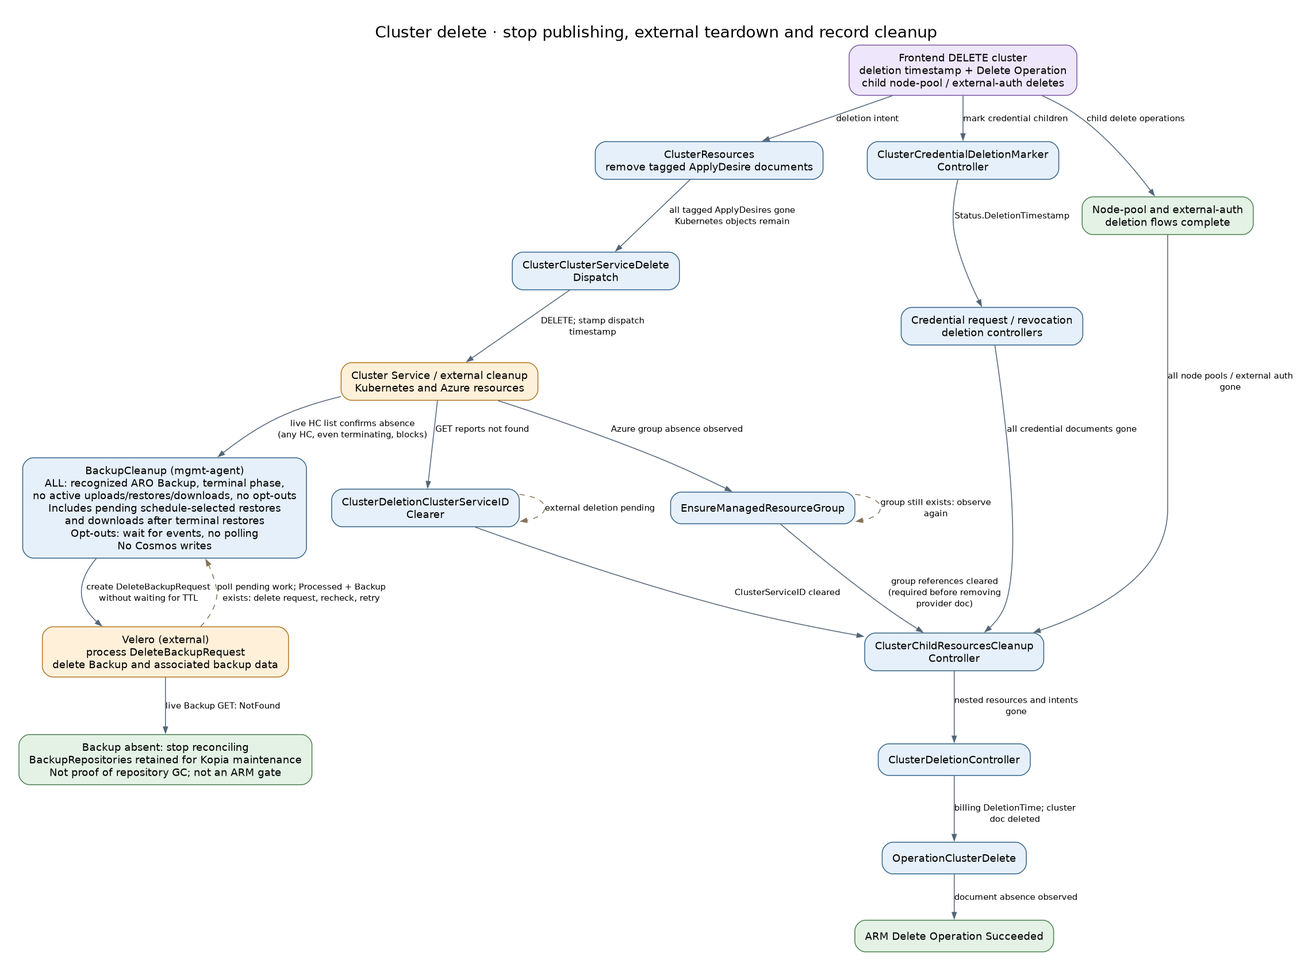
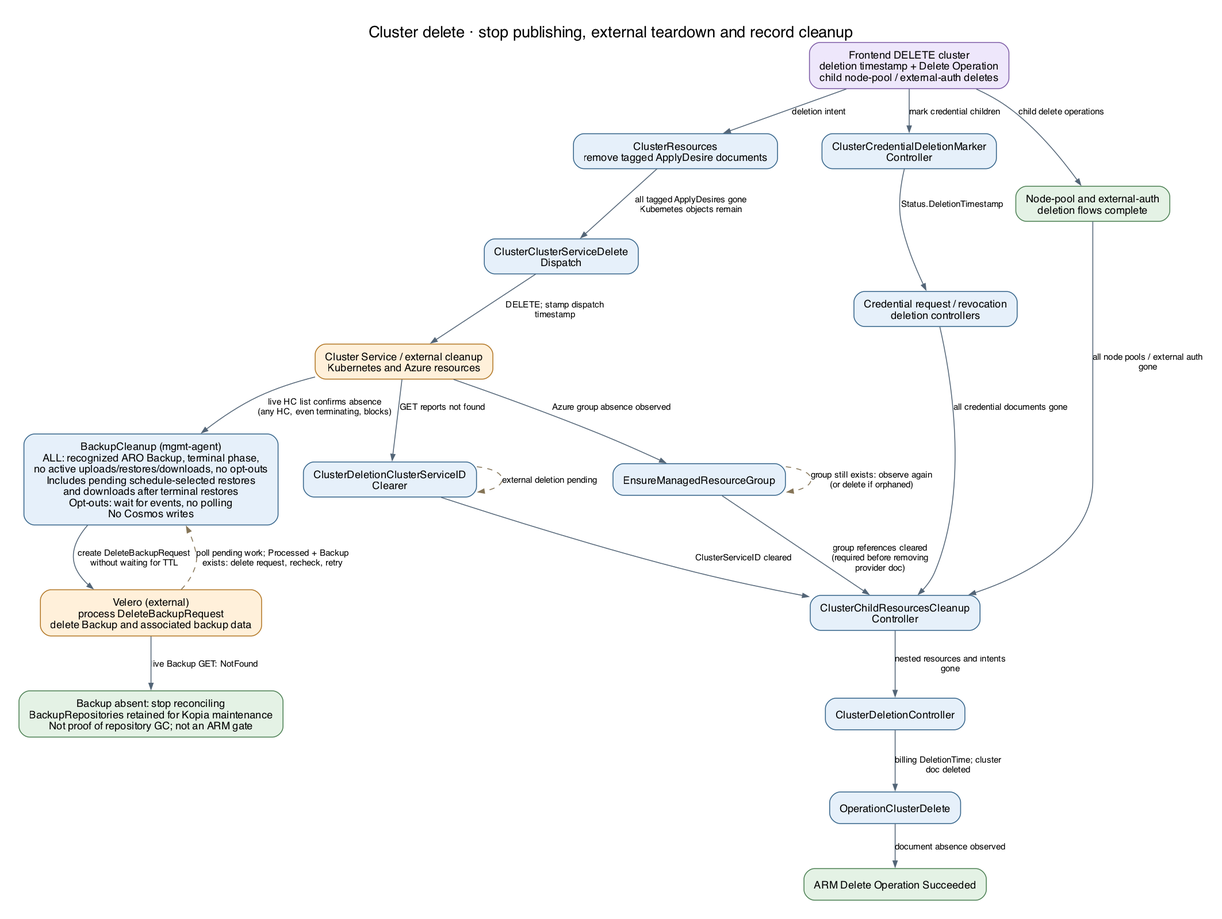
feat: delete mrg upon completed cs cluster deletion if orphaned
If Cluster Service deletion has completed and the manage resource group
still exists and is not in a deleting state, it means its been orphaned.
In this case, we should delete it to unblock the cluster from being deleted
successfully in the RP.

diff --git a/backend/pkg/controllers/cluster/azureresources/managed_resource_group_controller_test.go b/backend/pkg/controllers/cluster/azureresources/managed_resource_group_controller_test.go
@@ -437,6 +437,9 @@ func TestManagedResourceGroupSyncerSyncOnce(t *testing.T) {
 		},
 	}
 
+	// Additional test cases for orphaned MRG deletion logic will be added in a separate test
+	// since they require mocking BeginDelete calls which the table-driven test doesn't handle well
+
 	for _, tc := range testCases {
 		t.Run(tc.name, func(t *testing.T) {
 			t.Parallel()
@@ -786,4 +789,242 @@ func assertResourceIDEqual(t *testing.T, expected, actual *azcorearm.ResourceID,
 	}
 	require.NotNil(t, actual, "%s should not be nil", field)
 	assert.Equal(t, expected.String(), actual.String(), "%s resource ID mismatch", field)
+}
+
+// TestManagedResourceGroupSyncerOrphanedMRGDeletion tests the orphaned MRG deletion
+// logic: when Cluster Service has finished but the MRG still exists, the controller should delete it.
+func TestManagedResourceGroupSyncerOrphanedMRGDeletion(t *testing.T) {
+	t.Parallel()
+
+	mrgID := testManagedResourceGroupID(t)
+	ownerClusterID := newTestCluster(false).ID.String()
+	csClusterID := ptr.To(metadataapi.Must(metadataapi.NewInternalID("/api/aro_hcp/v1alpha1/clusters/test-cs-cluster-id")))
+
+	testCases := []struct {
+		name                            string
+		clusterServiceDeletionTimestamp *metav1.Time
+		clusterServiceID                *metadataapi.InternalID
+		getResponse                     armresources.ResourceGroupsClientGetResponse
+		expectBeginDelete               bool
+		beginDeleteErr                  error
+		expectErr                       bool
+		expectErrContains               string
+	}{
+		{
+			name:                            "CS finished and MRG in Succeeded state deletes it",
+			clusterServiceDeletionTimestamp: &metav1.Time{Time: time.Date(2026, 1, 2, 0, 0, 0, 0, time.UTC)},
+			clusterServiceID:                nil,
+			getResponse:                     resourceGroupPresentResponseWithState(ownerClusterID, "Succeeded"),
+			expectBeginDelete:               true,
+		},
+		{
+			name:                            "CS finished and MRG already Deleting does not call BeginDelete",
+			clusterServiceDeletionTimestamp: &metav1.Time{Time: time.Date(2026, 1, 2, 0, 0, 0, 0, time.UTC)},
+			clusterServiceID:                nil,
+			getResponse:                     resourceGroupPresentResponseWithState(ownerClusterID, "Deleting"),
+			expectBeginDelete:               false,
+		},
+		{
+			name:                            "CS not finished yet (ClusterServiceID set) does not delete",
+			clusterServiceDeletionTimestamp: &metav1.Time{Time: time.Date(2026, 1, 2, 0, 0, 0, 0, time.UTC)},
+			clusterServiceID:                csClusterID,
+			getResponse:                     resourceGroupPresentResponseWithState(ownerClusterID, "Succeeded"),
+			expectBeginDelete:               false,
+		},
+		{
+			name:                            "ClusterServiceDeletionTimestamp not set does not delete",
+			clusterServiceDeletionTimestamp: nil,
+			clusterServiceID:                nil,
+			getResponse:                     resourceGroupPresentResponseWithState(ownerClusterID, "Succeeded"),
+			expectBeginDelete:               false,
+		},
+		{
+			name:                            "CS finished but BeginDelete fails returns error",
+			clusterServiceDeletionTimestamp: &metav1.Time{Time: time.Date(2026, 1, 2, 0, 0, 0, 0, time.UTC)},
+			clusterServiceID:                nil,
+			getResponse:                     resourceGroupPresentResponseWithState(ownerClusterID, "Succeeded"),
+			expectBeginDelete:               true,
+			beginDeleteErr:                  errors.New("azure error"),
+			expectErr:                       true,
+			expectErrContains:               "failed to delete managed resource group",
+		},
+		{
+			name:                            "CS finished but Properties is nil does not call BeginDelete",
+			clusterServiceDeletionTimestamp: &metav1.Time{Time: time.Date(2026, 1, 2, 0, 0, 0, 0, time.UTC)},
+			clusterServiceID:                nil,
+			getResponse: armresources.ResourceGroupsClientGetResponse{
+				ResourceGroup: armresources.ResourceGroup{
+					Name:       ptr.To(testManagedRGName),
+					ManagedBy:  ptr.To(ownerClusterID),
+					Properties: nil, // nil Properties
+				},
+			},
+			expectBeginDelete: false,
+			expectErr:         true,
+			expectErrContains: "has no provisioning state",
+		},
+		{
+			name:                            "CS finished but ProvisioningState is nil does not call BeginDelete",
+			clusterServiceDeletionTimestamp: &metav1.Time{Time: time.Date(2026, 1, 2, 0, 0, 0, 0, time.UTC)},
+			clusterServiceID:                nil,
+			getResponse: armresources.ResourceGroupsClientGetResponse{
+				ResourceGroup: armresources.ResourceGroup{
+					Name:      ptr.To(testManagedRGName),
+					ManagedBy: ptr.To(ownerClusterID),
+					Properties: &armresources.ResourceGroupProperties{
+						ProvisioningState: nil, // nil ProvisioningState
+					},
+				},
+			},
+			expectBeginDelete: false,
+			expectErr:         true,
+			expectErrContains: "has no provisioning state",
+		},
+		{
+			name:                            "CS not finished and Properties is nil does not call BeginDelete",
+			clusterServiceDeletionTimestamp: &metav1.Time{Time: time.Date(2026, 1, 2, 0, 0, 0, 0, time.UTC)},
+			clusterServiceID:                csClusterID,
+			getResponse: armresources.ResourceGroupsClientGetResponse{
+				ResourceGroup: armresources.ResourceGroup{
+					Name:       ptr.To(testManagedRGName),
+					ManagedBy:  ptr.To(ownerClusterID),
+					Properties: nil,
+				},
+			},
+			expectBeginDelete: false,
+			expectErr:         true,
+			expectErrContains: "has no provisioning state",
+		},
+	}
+
+	for _, tc := range testCases {
+		t.Run(tc.name, func(t *testing.T) {
+			t.Parallel()
+
+			ctx := utils.ContextWithLogger(context.Background(), testr.New(t))
+
+			cluster := newTestCluster(true) // creates cluster with deletion timestamp set
+			cluster.ServiceProviderProperties.ClusterServiceDeletionTimestamp = tc.clusterServiceDeletionTimestamp
+			cluster.ServiceProviderProperties.ClusterServiceID = tc.clusterServiceID
+			serviceProviderCluster := newTestServiceProviderCluster(coreapi.AzureReference{AzureResource: mrgID})
+
+			mockResourcesDB, err := corecosmosstoragetesting.NewMockResourcesDBClientWithResources(ctx, []any{cluster, serviceProviderCluster})
+			require.NoError(t, err)
+
+			ctrl := gomock.NewController(t)
+			mockRGClient := azureclient.NewMockResourceGroupsClient(ctrl)
+			mockRGClient.EXPECT().
+				Get(gomock.Any(), mrgID.Name, nil).
+				Return(tc.getResponse, nil).
+				Times(1)
+
+			if tc.expectBeginDelete {
+				mockRGClient.EXPECT().
+					BeginDelete(gomock.Any(), mrgID.Name, nil).
+					Return(nil, tc.beginDeleteErr).
+					Times(1)
+			}
+
+			fpaClientBuilder := azureclient.NewMockFirstPartyApplicationClientBuilder(ctrl)
+			fpaClientBuilder.EXPECT().
+				ResourceGroupsClient(testTenantID, testSubscriptionID).
+				Return(mockRGClient, nil).
+				Times(1)
+
+			syncer := &managedResourceGroupSyncer{
+				resourcesDBClient:            mockResourcesDB,
+				clusterLister:                &corelistertesting.DBClusterLister{ResourcesDBClient: mockResourcesDB},
+				serviceProviderClusterLister: &corelistertesting.DBServiceProviderClusterLister{ResourcesDBClient: mockResourcesDB},
+				subscriptionLister:           &corelistertesting.SliceSubscriptionLister{Subscriptions: []*coreapi.Subscription{newTestSubscription(ptr.To(testTenantID))}},
+				azureFPAClientBuilder:        fpaClientBuilder,
+			}
+
+			key := controllerutils.HCPClusterKey{
+				SubscriptionID:    testSubscriptionID,
+				ResourceGroupName: testResourceGroupName,
+				HCPClusterName:    testClusterName,
+			}
+
+			err = syncer.SyncOnce(ctx, key)
+			if tc.expectErr {
+				require.Error(t, err)
+				if tc.expectErrContains != "" {
+					assert.Contains(t, err.Error(), tc.expectErrContains)
+				}
+			} else {
+				require.NoError(t, err)
+			}
+
+			// References should stay in place until MRG is gone (404)
+			updated, err := mockResourcesDB.ServiceProviderClusters(testSubscriptionID, testResourceGroupName, testClusterName).Get(ctx, coreapi.ServiceProviderClusterResourceName)
+			require.NoError(t, err)
+			gotReference := updated.Status.AzureResources.ManagedResourceGroup
+			assertResourceIDEqual(t, mrgID, gotReference.AzureResource, "AzureResource")
+			assertResourceIDEqual(t, nil, gotReference.PendingAzureResource, "PendingAzureResource")
+		})
+	}
+}
+
+func TestManagedResourceGroupSyncerOrphanedMRGDeletion_BeginDelete404(t *testing.T) {
+	t.Parallel()
+
+	ctx := utils.ContextWithLogger(context.Background(), testr.New(t))
+
+	mrgID := testManagedResourceGroupID(t)
+	ownerClusterID := newTestCluster(false).ID.String()
+
+	cluster := newTestCluster(true)
+	cluster.ServiceProviderProperties.ClusterServiceDeletionTimestamp = &metav1.Time{Time: time.Date(2026, 1, 2, 0, 0, 0, 0, time.UTC)}
+	cluster.ServiceProviderProperties.ClusterServiceID = nil
+	serviceProviderCluster := newTestServiceProviderCluster(coreapi.AzureReference{AzureResource: mrgID})
+
+	mockResourcesDB, err := corecosmosstoragetesting.NewMockResourcesDBClientWithResources(ctx, []any{cluster, serviceProviderCluster})
+	require.NoError(t, err)
+
+	ctrl := gomock.NewController(t)
+	mockRGClient := azureclient.NewMockResourceGroupsClient(ctrl)
+	mockRGClient.EXPECT().
+		Get(gomock.Any(), mrgID.Name, nil).
+		Return(resourceGroupPresentResponseWithState(ownerClusterID, "Succeeded"), nil).
+		Times(1)
+
+	beginDeleteErr := &azcore.ResponseError{
+		StatusCode: http.StatusNotFound,
+		RawResponse: &http.Response{
+			StatusCode: http.StatusNotFound,
+		},
+		ErrorCode: "ResourceGroupNotFound",
+	}
+	mockRGClient.EXPECT().
+		BeginDelete(gomock.Any(), mrgID.Name, nil).
+		Return(nil, beginDeleteErr).
+		Times(1)
+
+	fpaClientBuilder := azureclient.NewMockFirstPartyApplicationClientBuilder(ctrl)
+	fpaClientBuilder.EXPECT().
+		ResourceGroupsClient(testTenantID, testSubscriptionID).
+		Return(mockRGClient, nil).
+		Times(1)
+
+	syncer := &managedResourceGroupSyncer{
+		resourcesDBClient:            mockResourcesDB,
+		clusterLister:                &corelistertesting.DBClusterLister{ResourcesDBClient: mockResourcesDB},
+		serviceProviderClusterLister: &corelistertesting.DBServiceProviderClusterLister{ResourcesDBClient: mockResourcesDB},
+		subscriptionLister:           &corelistertesting.SliceSubscriptionLister{Subscriptions: []*coreapi.Subscription{newTestSubscription(ptr.To(testTenantID))}},
+		azureFPAClientBuilder:        fpaClientBuilder,
+	}
+
+	key := controllerutils.HCPClusterKey{
+		SubscriptionID:    testSubscriptionID,
+		ResourceGroupName: testResourceGroupName,
+		HCPClusterName:    testClusterName,
+	}
+
+	require.NoError(t, syncer.SyncOnce(ctx, key))
+
+	updated, err := mockResourcesDB.ServiceProviderClusters(testSubscriptionID, testResourceGroupName, testClusterName).Get(ctx, coreapi.ServiceProviderClusterResourceName)
+	require.NoError(t, err)
+	gotReference := updated.Status.AzureResources.ManagedResourceGroup
+	assertResourceIDEqual(t, nil, gotReference.AzureResource, "AzureResource")
+	assertResourceIDEqual(t, nil, gotReference.PendingAzureResource, "PendingAzureResource")
 }

diff --git a/backend/pkg/controllers/cluster/azureresources/managed_resource_group_controller.go b/backend/pkg/controllers/cluster/azureresources/managed_resource_group_controller.go
@@ -58,8 +58,8 @@ const managedResourceGroupProvisioningRequeueInterval = 10 * time.Second
 // DB-consuming code (for example the cluster child-resources cleanup gate) can
 // reason about the MRG without reaching into Azure directly.
 //
-// Deletion is still owned by Cluster Service: the deletion path is observe-only
-// (it never calls BeginDelete) and merely mirrors the observed state so the
+// Deletion is still owned by Cluster Service: the deletion path is observe-only, unless
+// the managed resource group has been orphaned, and merely mirrors the observed state so the
 // cluster deletion gate can decide when it is safe to proceed.
 type managedResourceGroupSyncer struct {
 	resourcesDBClient            corecosmosstorage.ResourcesDBClient
@@ -141,7 +141,8 @@ func (c *managedResourceGroupSyncer) NeedsWork(cluster *coreapi.Cluster, service
 // SyncOnce reads the cluster and ServiceProviderCluster from the informer caches,
 // short-circuits via NeedsWork, and then dispatches to the deletion or
 // non-deletion (reconcile) path. The non-deletion path creates the resource group
-// when it is missing; deletion remains observe-only (Cluster Service owns it).
+// when it is missing; deletion remains observe-only (Cluster Service owns it), unless the managed
+// resource group has been orphaned.
 func (c *managedResourceGroupSyncer) SyncOnce(ctx context.Context, key controllerutils.HCPClusterKey) error {
 	cluster, err := c.clusterLister.Get(ctx, key.SubscriptionID, key.ResourceGroupName, key.HCPClusterName)
 	if cosmosstorageutils.IsNotFoundError(err) {
@@ -333,7 +334,7 @@ func (c *managedResourceGroupSyncer) persistManagedResourceGroup(ctx context.Con
 	return utils.TrackError(err)
 }
 
-// deleteManagedResourceGroup observes the managed resource group while the cluster
+// deleteManagedResourceGroup observes the managed resource group, unless orphaned, while the cluster
 // is being deleted and reflects its state so the cluster child-resources cleanup
 // gate can decide when it is safe to remove the ServiceProviderCluster document.
 //
@@ -350,6 +351,8 @@ func (c *managedResourceGroupSyncer) persistManagedResourceGroup(ctx context.Con
 //     gate stays closed. Cluster Service owns the resource group's deletion. TODO: begin
 //     deletion.
 func (c *managedResourceGroupSyncer) deleteManagedResourceGroup(ctx context.Context, cluster *coreapi.Cluster, existingServiceProviderCluster *coreapi.ServiceProviderCluster) error {
+	logger := utils.LoggerFromContext(ctx)
+
 	// A reference is guaranteed set here (see NeedsWork). Prefer the confirmed
 	// AzureResource, falling back to the PendingAzureResource marker.
 	currentReference := existingServiceProviderCluster.Status.AzureResources.ManagedResourceGroup
@@ -379,9 +382,38 @@ func (c *managedResourceGroupSyncer) deleteManagedResourceGroup(ctx context.Cont
 		return utils.TrackError(c.clearManagedResourceGroupReferences(ctx, cluster, existingServiceProviderCluster))
 	default:
 		// The managed resource group still exists and is owned by this cluster.
-		// Cluster Service owns its deletion; leave the reference in place so the
-		// deletion gate stays closed.
-		// TODO: begin deletion of the managed resource group.
+		if getResponse.Properties == nil || getResponse.Properties.ProvisioningState == nil {
+			return utils.TrackError(fmt.Errorf("managed resource group %q has no provisioning state", managedResourceGroupID.Name))
+		}
+		provisioningState := *getResponse.Properties.ProvisioningState
+
+		// If Cluster Service deletion has completed and the managed resource group
+		// is still not in a deleting state, it has been orphaned and therefore we
+		// should delete it.
+		if cluster.ServiceProviderProperties.DeletionTimestamp != nil &&
+			cluster.ServiceProviderProperties.ClusterServiceDeletionTimestamp != nil &&
+			(cluster.ServiceProviderProperties.ClusterServiceID == nil || cluster.ServiceProviderProperties.ClusterServiceID.String() == "") &&
+			provisioningState != string(armresources.ProvisioningStateDeleting) {
+			logger.Info("deleting orphaned managed resource group", "managedResourceGroup", managedResourceGroupID.Name,
+				"managedBy", getResponse.ManagedBy, "provisioningState", provisioningState)
+			_, err := rgClient.BeginDelete(ctx, managedResourceGroupID.Name, nil)
+			if err != nil {
+				if isNotFound(err) {
+					// The managed resource group was deleted between the Get and BeginDelete calls
+					// (race with Cluster Service or external deletion). Treat this as success.
+					logger.Info("managed resource group already deleted", "managedResourceGroup", managedResourceGroupID.Name)
+					return utils.TrackError(c.clearManagedResourceGroupReferences(ctx, cluster, existingServiceProviderCluster))
+				}
+				return utils.TrackError(fmt.Errorf("failed to delete managed resource group %q: %w", managedResourceGroupID.Name, err))
+			}
+			// do not poll for deletion completion here which will block this thread.
+			// on the next sync(s) the reference will be cleared once the MRG no longer exists.
+		}
+
+		// TODO: The above logic is only to remove orphaned managed resource groups
+		// while Cluster Service is still responsible for processing the deletion.
+		// Changes here are still required to move the responsibility of deleting the
+		// managed resource group to the RP.
 		return nil
 	}
 }

diff --git a/docs/cosmos-data-flow.md b/docs/cosmos-data-flow.md
@@ -554,7 +554,7 @@ Reads the requested data-plane operator identities and writes `Status.DataPlaneO
 
 [Source](../backend/pkg/controllers/cluster/azureresources/managed_resource_group_controller.go) · **Trigger:** Cluster; 5m; 10s while provisioning.
 
-Records pending managed resource group intent, gets/creates the Azure resource group with ownership metadata, and confirms `Status.AzureResources.ManagedResourceGroup.AzureResource` only after provisioning succeeds. During deletion it observes absence and clears tracking; it does not delete the Azure group.
+Records pending managed resource group intent, gets/creates the Azure resource group with ownership metadata, and confirms `Status.AzureResources.ManagedResourceGroup.AzureResource` only after provisioning succeeds. During deletion it observes absence and clears tracking. If the managed resource group has been orphaned (Cluster Service deletion completed, Cluster Service ID cleared, and the Azure resource group still exists and is not deleting), it initiates Azure deletion of the orphaned group.
 
 #### ClusterDenyAssignment
 
@@ -1318,7 +1318,7 @@ The DataplaneController registers ready session credentials, owner and backend A
 
 | Resource / system | Actual mutator | Intent, observation and cleanup |
 |---|---|---|
-| Azure managed resource group | [EnsureManagedResourceGroup](#ensuremanagedresourcegroup) creates; [CleanOrphanedClusterManagedResourceGroup](#cleanorphanedclustermanagedresourcegroup) deletes confirmed orphans only in readwrite mode | Pending reference is persisted before creation; provisioning success confirms it. Normal deletion relies on external teardown; EnsureManagedResourceGroup only observes absence and clears references. |
+| Azure managed resource group | [EnsureManagedResourceGroup](#ensuremanagedresourcegroup) creates; [CleanOrphanedClusterManagedResourceGroup](#cleanorphanedclustermanagedresourcegroup) deletes confirmed orphans only in readwrite mode | Pending reference is persisted before creation; provisioning success confirms it. Normal deletion relies on external teardown; EnsureManagedResourceGroup observes absence and clears references. EnsureManagedResourceGroup also initiates Azure deletion for orphaned MRGs (where Cluster Service deletion completed, Cluster Service ID cleared, but Azure resource group still exists) |
 | Azure deny assignments | [ClusterDenyAssignment](#clusterdenyassignment) gets/creates/updates/deletes stale assignments | Tracks pending/confirmed IDs. Cluster creation requires no pending entries, a nonempty confirmed list and `EarliestRecheckTime` when enabled. Cluster deletion skips direct assignment cleanup; resource-group deletion cascades. |
 | Azure role assignments | [IdentityRoleAssignments](#identityroleassignments) gets and creates missing assignments | Persists intent before PUT; later GET confirms existence. Old confirmed assignments are retained. Cluster creation requires a nonempty confirmed list and no pending assignments. |
 | Azure identities, VM SKUs, quota, NSGs, container registry pull MI access and access checks | Identity/validation controllers and SKU cache **observe** | Store resolved identities, validation conditions or memory cache; these checks do not create identities, change NSGs, raise quota or modify managed identities. [ClusterValidationContainerRegistryPullCredentialsPermissionValidation](#clustervalidationcontainerregistrypullcredentialspermissionvalidation) checks CAPZ assign/action permission on pull MI using CheckAccess V2. |
@@ -1418,7 +1418,7 @@ The [operation poller](../backend/pkg/controllers/cluster/operations/operation_c
 
 ![Cluster delete controller digraph](diagrams/controller-flows/cluster-delete.png)
 
-[ClusterResources](../backend/pkg/controllers/clusterresources/cluster_resources_controller.go) first drops its tagged ApplyDesire documents, stopping their reconciliation without deleting their Kubernetes targets. [Delete dispatch](../backend/pkg/controllers/cluster/deletion/cluster_cluster_service_delete_dispatch_controller.go) waits for that intent cleanup before calling Cluster Service DELETE. External components then tear down Kubernetes and Azure resources. [Child cleanup](../backend/pkg/controllers/cluster/deletion/cluster_child_resources_cleanup_controller.go) waits for resource and credential children, and preserves owned ApplyDesires for their controllers and removes provider state only after managed-resource-group references, Maestro readonly bundles and cluster-scoped desires clear. [Managed-resource-group reconciliation](../backend/pkg/controllers/cluster/azureresources/managed_resource_group_controller.go) only observes deletion; it does not issue it. The optional orphan-group cleaner is a background repair path, not a prerequisite for typical deletion.
+[ClusterResources](../backend/pkg/controllers/clusterresources/cluster_resources_controller.go) first drops its tagged ApplyDesire documents, stopping their reconciliation without deleting their Kubernetes targets. [Delete dispatch](../backend/pkg/controllers/cluster/deletion/cluster_cluster_service_delete_dispatch_controller.go) waits for that intent cleanup before calling Cluster Service DELETE. External components then tear down Kubernetes and Azure resources. [Child cleanup](../backend/pkg/controllers/cluster/deletion/cluster_child_resources_cleanup_controller.go) waits for resource and credential children, and preserves owned ApplyDesires for their controllers and removes provider state only after managed-resource-group references, Maestro readonly bundles and cluster-scoped desires clear. [Managed-resource-group reconciliation](../backend/pkg/controllers/cluster/azureresources/managed_resource_group_controller.go) observes deletion during normal flow but also initiates Azure deletion for orphaned managed resource groups (where Cluster Service deletion completed, Cluster Service ID cleared, but Azure resource group still exists). The optional orphan-group cleaner is a background repair path, not a prerequisite for typical deletion.
 
 The separate [BackupCleanup](../mgmt-agent/pkg/controller/backupcleanup/controller.go) branch starts only after live reads confirm no HC remains in the recognized backup's HC namespace, not merely a deletion timestamp. All backup/operation/opt-out gates in its [catalog entry](#backupcleanup) must also pass. It requests Velero deletion without waiting for TTL; pending work polls and processed requests with a remaining Backup are retried. [KeyRotationBackup](../backend/pkg/controllers/cluster/backups/key_rotation_controller.go) only purges its Cosmos desires during cluster deletion. Neither ARM success nor Backup absence proves Kopia GC completion; BackupRepositories remain for maintenance, and this branch does not gate the ARM result.
 
@@ -1512,7 +1512,7 @@ actors and use optimistic concurrency; retries must re-read on conflict.
 | Cluster `Spec.ManagementClusterResourceID` / `Status.ManagementClusterResourceID` | [Placement](#placement) chooses the target; [ManagementClusterPlacementSync](#managementclusterplacementsync) records Cluster Service reality. Desired placement enables creation; actual placement enables per-cluster kube-applier access. |
 | Scheduling `Status.PendingAssignedClusters` | [Placement](#placement) reserves; [CapacityReportingController](#capacityreportingcontroller) removes observed entries; [PendingCleanup](#pendingcleanup) removes missing/misplaced entries and unresolved reservations for deleting/terminal clusters. |
 | Scheduling observed capacity / scale ceiling; fleet HCP resource requirements | Fleet capacity and scale-ceiling controllers write observed scheduling inputs. [HCPResourceRequirementsController](#hcpresourcerequirementscontroller) aggregates per-HCP demand. Placement retains SWIFT NIC eligibility and selection, but prefers lower known CPU/memory contention against current capacity for zero-NIC demand. Aggregate HCP demand is not used for placement. |
-| `Status.AzureResources.ManagedResourceGroup` | [EnsureManagedResourceGroup](#ensuremanagedresourcegroup) writes pending/confirmed reference and clears both after observing deletion. Deny/role assignment controllers need the confirmed group; final provider-document cleanup needs references gone. |
+| `Status.AzureResources.ManagedResourceGroup` | [EnsureManagedResourceGroup](#ensuremanagedresourcegroup) writes pending/confirmed reference and clears both after observing deletion. Deletes orphaned managed resource groups when Cluster Service deletion completed but the Azure resource group still exists. Deny/role assignment controllers need the confirmed group; final provider-document cleanup needs references gone.  |
 | `Status.AzureResources.DenyAssignments` / `RoleAssignments` | Their respective controllers track `PendingAzureResources` and confirmed `AzureResources`. The role controller confirms newly created assignments in a later observation pass. |
 | `Status.MSIManagedIdentities`, `Status.DataPlaneOperatorsManagedIdentities` | Identity fetchers write resolved IDs/errors for assignment and identity-property synchronization. `Spec.EarliestRecheckTimesByController` has independently owned entries for identity and role-assignment controllers; deny assignments keep their own `EarliestRecheckTime` under `Status.AzureResources.DenyAssignments`. |
 | `Status.Validations` | Each registered validation writes its own condition in the service-provider cluster or node pool; requirements aggregators consume the set. |
